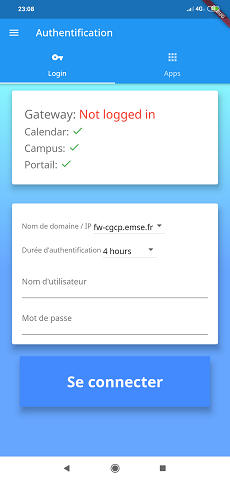
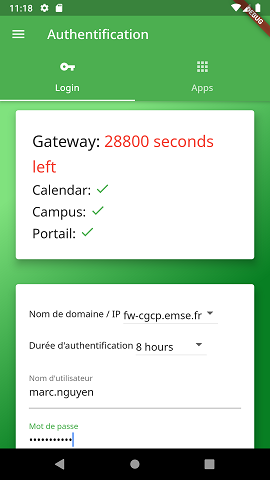
1080p: Fix alignment
+ Documentation Update

diff --git a/lib/pages/portal_tabs/login.dart b/lib/pages/portal_tabs/login.dart
@@ -55,6 +55,7 @@ class LoginPageState extends State<LoginPage> {
                   child: Padding(
                     padding: const EdgeInsets.all(20),
                     child: Column(
+                      crossAxisAlignment: CrossAxisAlignment.start,
                       children: <Widget>[
                         FittedBox(
                           child: Row(
@@ -78,22 +79,24 @@ class LoginPageState extends State<LoginPage> {
                             ],
                           ),
                         ),
-                        Row(
-                          children: <Widget>[
-                            Text("Durée d\'authentification "),
-                            DropdownButton<String>(
-                              value: _selectedTime,
-                              items: _timeMap.keys
-                                  .map((String value) =>
-                                      DropdownMenuItem<String>(
-                                        child: Text(value),
-                                        value: value,
-                                      ))
-                                  .toList(),
-                              onChanged: (selectedTime) =>
-                                  setState(() => _selectedTime = selectedTime),
-                            ),
-                          ],
+                        FittedBox(
+                          child: Row(
+                            children: <Widget>[
+                              Text("Durée d\'authentification "),
+                              DropdownButton<String>(
+                                value: _selectedTime,
+                                items: _timeMap.keys
+                                    .map((String value) =>
+                                        DropdownMenuItem<String>(
+                                          child: Text(value),
+                                          value: value,
+                                        ))
+                                    .toList(),
+                                onChanged: (selectedTime) => setState(
+                                    () => _selectedTime = selectedTime),
+                              ),
+                            ],
+                          ),
                         ),
                         Form(
                           key: _formKey,
